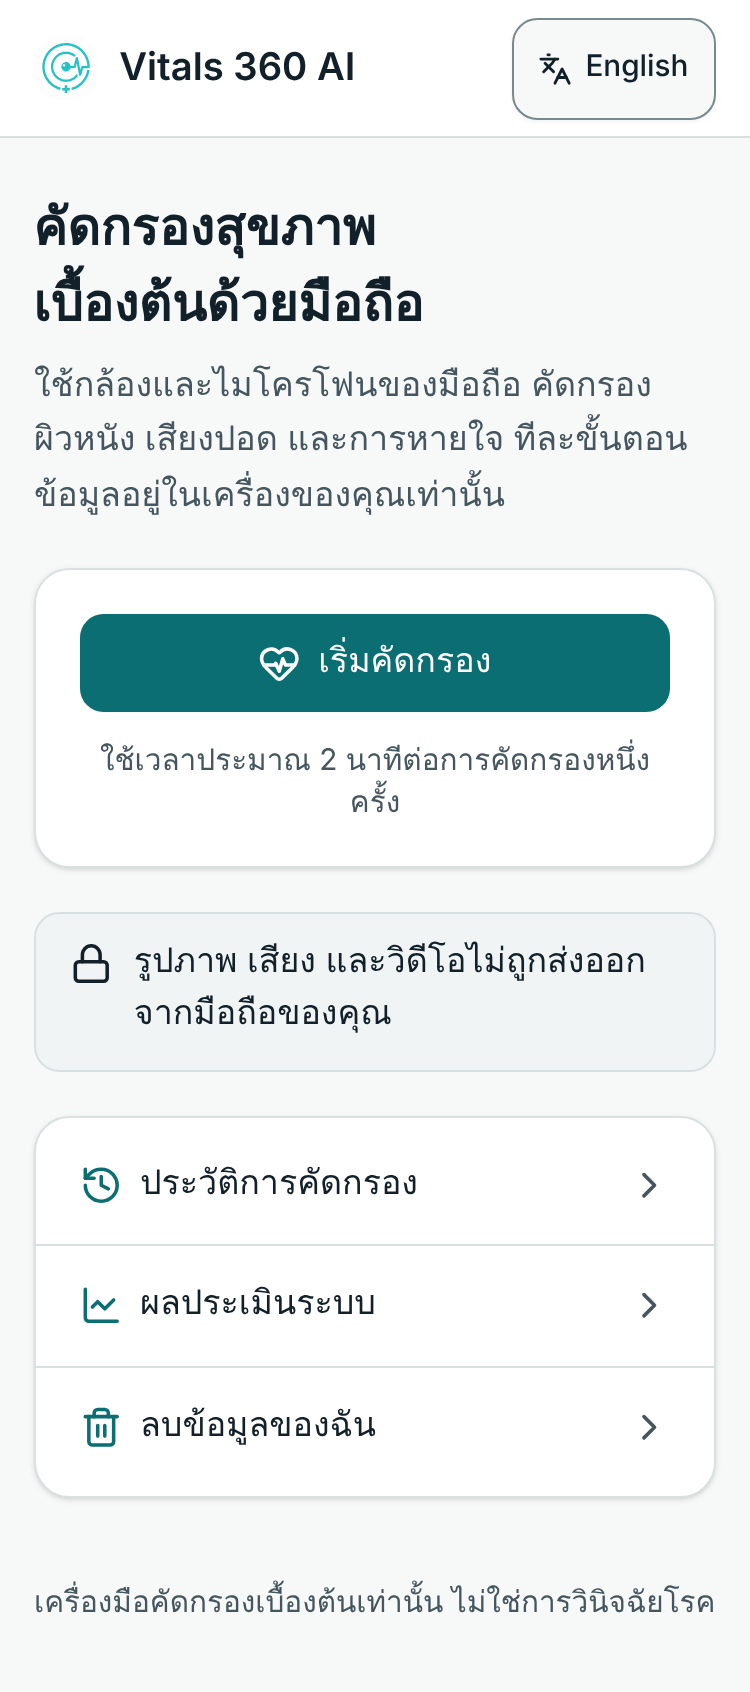
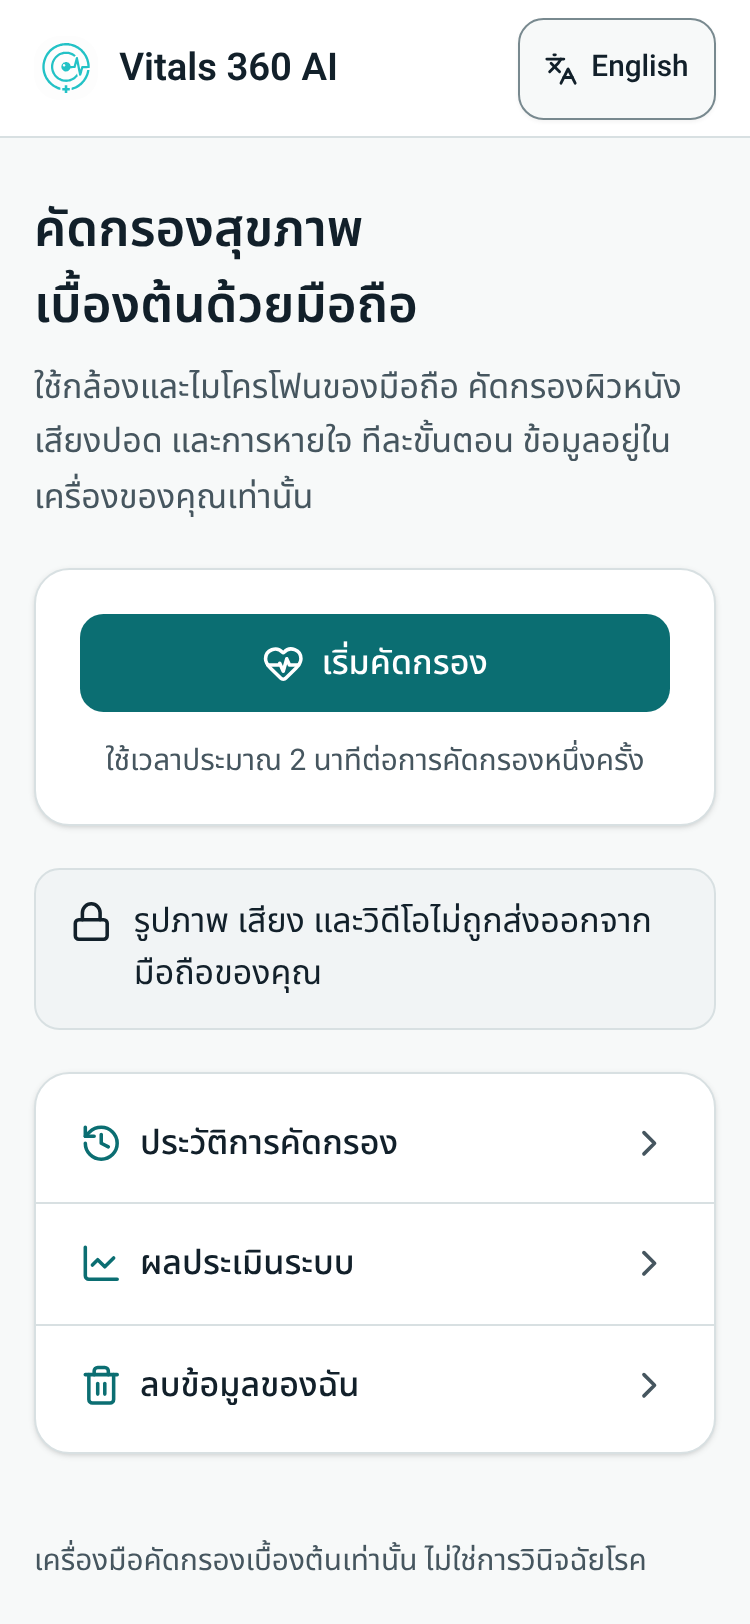
feat: use Roboto + Noto Sans Thai, self-hosted via next/font
Claude-Session: https://claude.ai/code/session_01QbBXfR1RWjDMJjJBJ3RB6s

diff --git a/src/app/[locale]/layout.tsx b/src/app/[locale]/layout.tsx
@@ -2,6 +2,7 @@ import type { Metadata, Viewport } from "next";
 import { notFound } from "next/navigation";
 import type { ReactNode } from "react";
 import "../globals.css";
+import { fontVars } from "../fonts";
 import { Header } from "@/components/Header";
 import { I18nProvider } from "@/components/I18nProvider";
 import { ServiceWorkerRegister } from "@/components/ServiceWorkerRegister";
@@ -46,7 +47,7 @@ export default async function LocaleLayout({ children, params }: Props) {
   if (!isLocale(locale)) notFound();
   const t = getDict(locale);
   return (
-    <html lang={locale}>
+    <html lang={locale} className={fontVars}>
       <body>
         <a
           className="sr-only rounded-lg bg-primary px-4 py-3 text-primary-foreground focus:not-sr-only focus:fixed focus:top-4 focus:left-4 focus:z-50"

diff --git a/src/app/(root)/layout.tsx b/src/app/(root)/layout.tsx
@@ -1,5 +1,6 @@
 import type { Metadata, Viewport } from "next";
 import "../globals.css";
+import { fontVars } from "../fonts";
 
 export const metadata: Metadata = {
   title: "Vitals 360 AI",
@@ -12,7 +13,7 @@ export const viewport: Viewport = { themeColor: "#0b6e72", width: "device-width"
 // "/" has no locale, so it is its own root layout (the locale layout is the root for everything else).
 export default function RootRedirectLayout({ children }: { children: React.ReactNode }) {
   return (
-    <html lang="th">
+    <html lang="th" className={fontVars}>
       <body>{children}</body>
     </html>
   );

diff --git a/src/app/fonts.ts b/src/app/fonts.ts
@@ -1,0 +1,7 @@
+import { Noto_Sans_Thai, Roboto } from "next/font/google";
+
+// Roboto for Latin text, Noto Sans Thai for Thai glyphs (Roboto has none). Self-hosted at build time.
+export const roboto = Roboto({ subsets: ["latin"], variable: "--font-roboto", display: "swap" });
+export const notoSansThai = Noto_Sans_Thai({ subsets: ["thai"], variable: "--font-noto-thai", display: "swap" });
+
+export const fontVars = `${roboto.variable} ${notoSansThai.variable}`;

diff --git a/src/app/globals.css b/src/app/globals.css
@@ -50,7 +50,7 @@
 }
 
 @theme inline {
-  --font-sans: "Noto Sans Thai", "Sarabun", "Leelawadee UI", Tahoma, system-ui, -apple-system, "Segoe UI", Roboto, sans-serif;
+  --font-sans: var(--font-roboto), var(--font-noto-thai), "Noto Sans Thai", "Leelawadee UI", Tahoma, system-ui, sans-serif;
   --font-heading: var(--font-sans);
   --color-background: var(--background);
   --color-foreground: var(--foreground);
